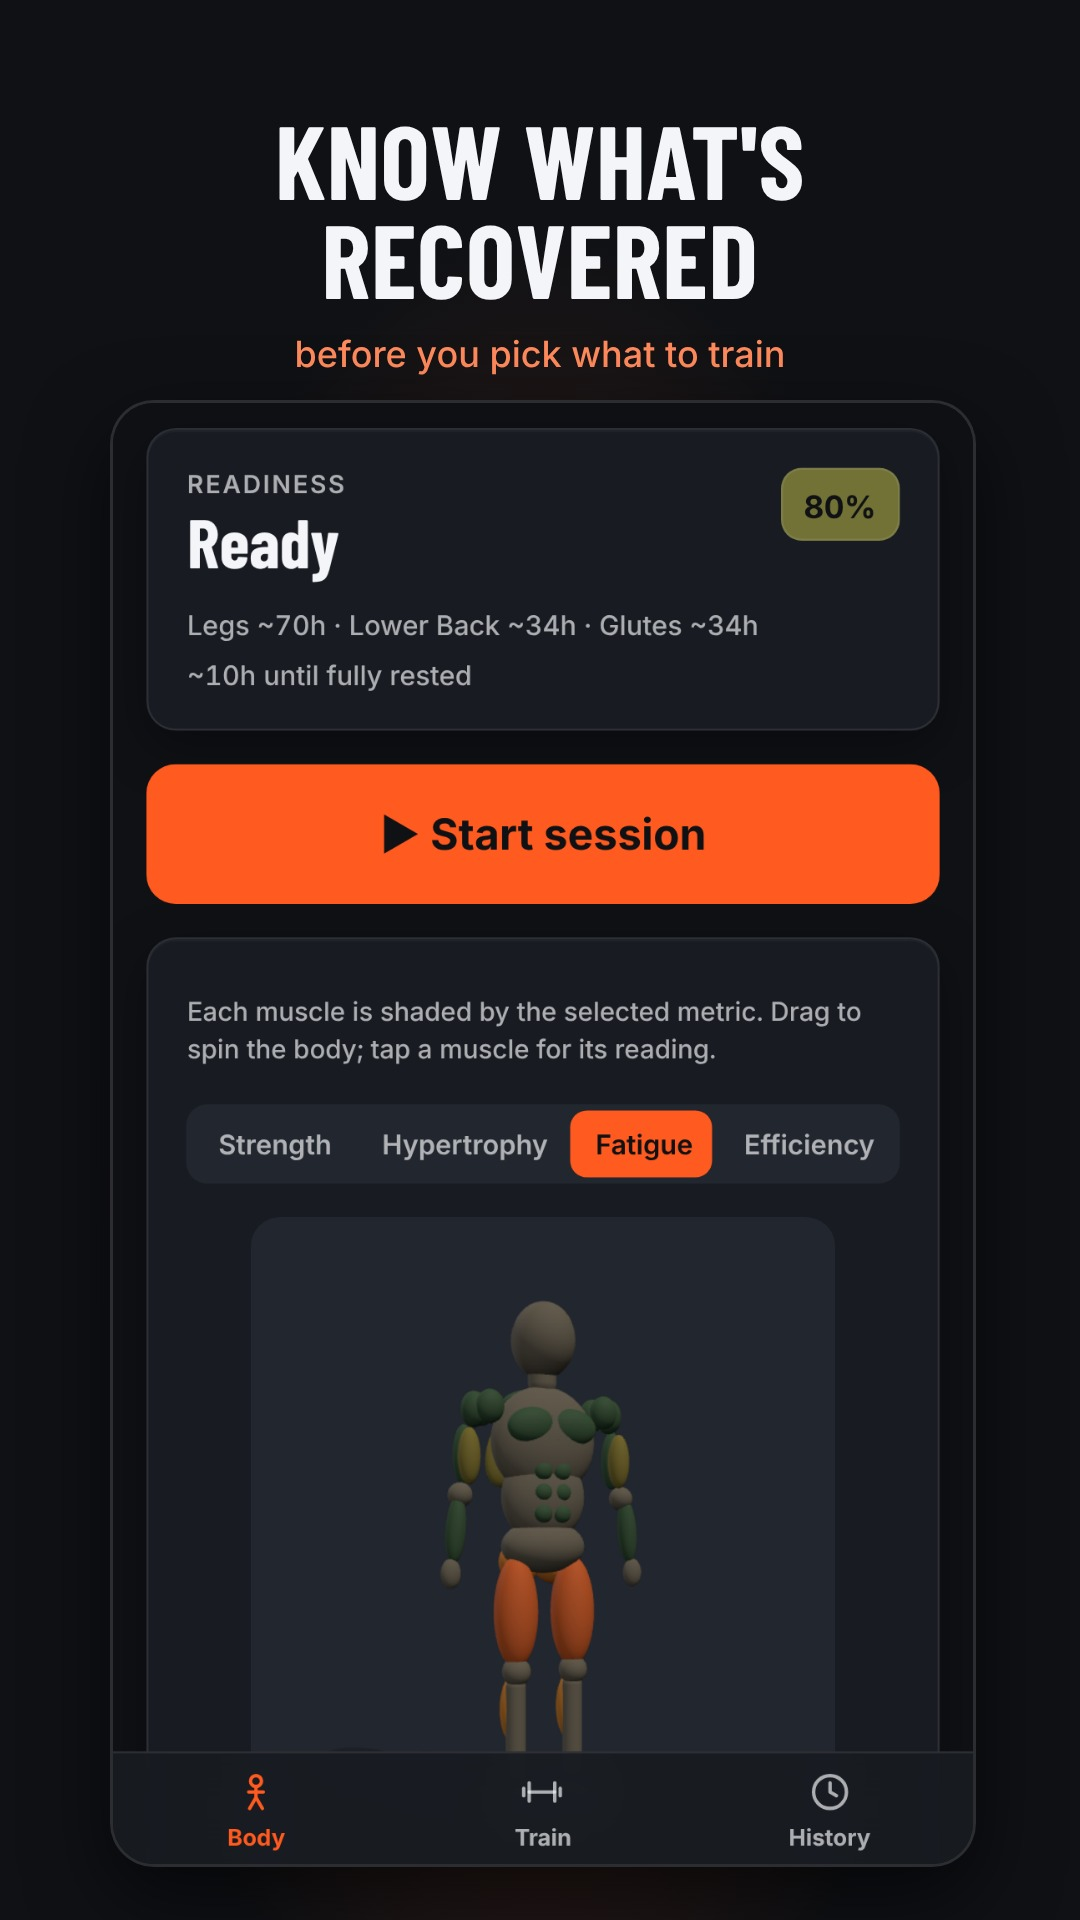
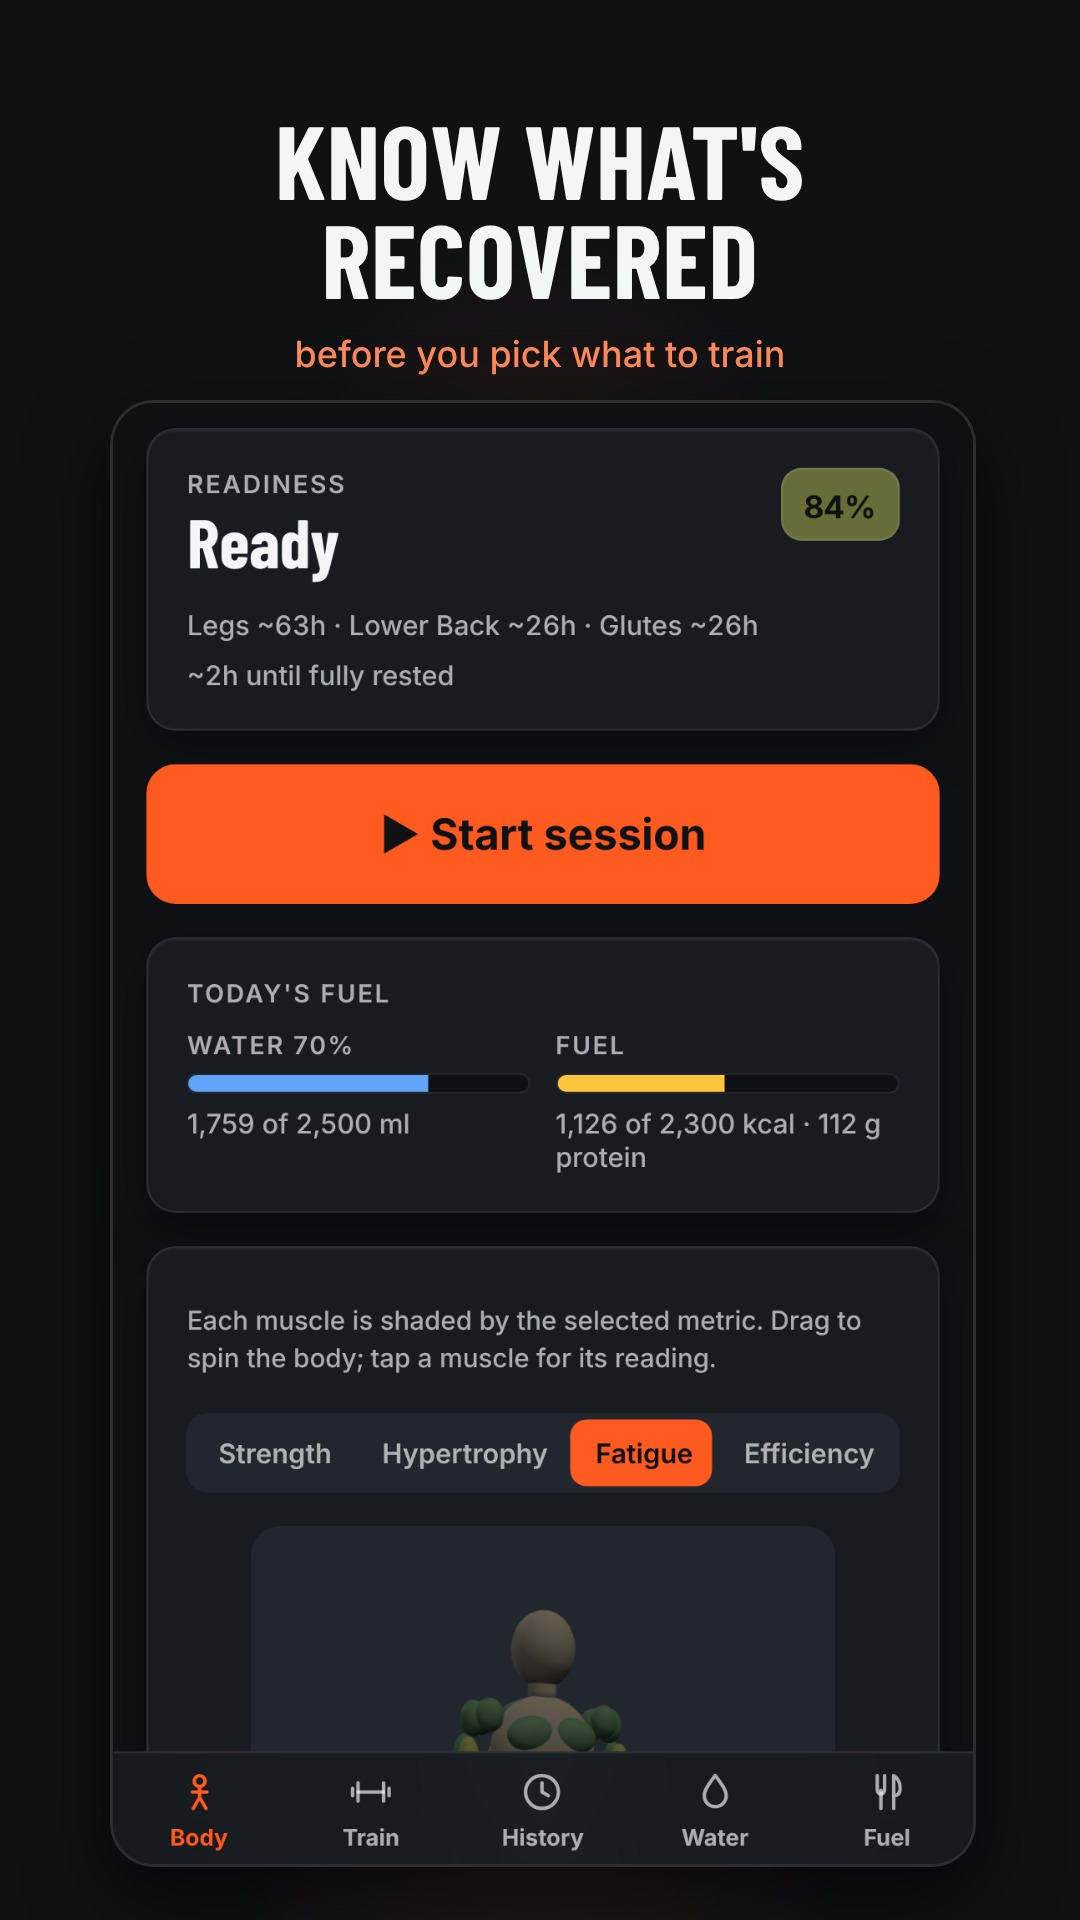
Release 1.1.0 with the Water and Fuel tabs
Bump to 1.1.0 (versionCode 10100): the first Play build with the Water and
Fuel tabs and the Android share-intent handoff for Claude replies. Release
notes in English and Romanian (both under Play's 500-character limit).

The store screenshots now show the new tabs: play-assets seeds a week of
drinks, today's food, three weeks of weigh-ins and waist, and a body profile,
and captures Water and Fuel with today's push day finished, so the water goal
and Fuel's training card carry it. Seven screenshots per locale (Play allows
up to eight); the existing ones were regenerated with the same data, so the
Body home now shows the today strip.

Claude-Session: https://claude.ai/code/session_015MaGJPecjG8UeksWiwcVhp

diff --git a/docs/play-release.md b/docs/play-release.md
@@ -120,7 +120,7 @@ enter them by hand instead, paste from the same files.
   the GitHub Pages URL is the web app itself, not a page about it.
 - **Graphics:** `images/icon.png` (512×512, full-bleed; Play adds the rounded
   mask), `images/featureGraphic.jpg` (1024×500), `images/phoneScreenshots/*.jpg`
-  (5 × 1080×1920, captioned; JPEG because Play rejects alpha channels). Play accepts 2 to 8 phone screenshots. Tablet
+  (7 × 1080×1920, captioned; JPEG because Play rejects alpha channels). Play accepts 2 to 8 phone screenshots. Tablet
   screenshots are optional; the app is portrait phone-first.
 - **Romanian (ro):** the store listing is English only for now, though the app
   itself has both languages. The translated listing stays ready in `ro/`; add it
